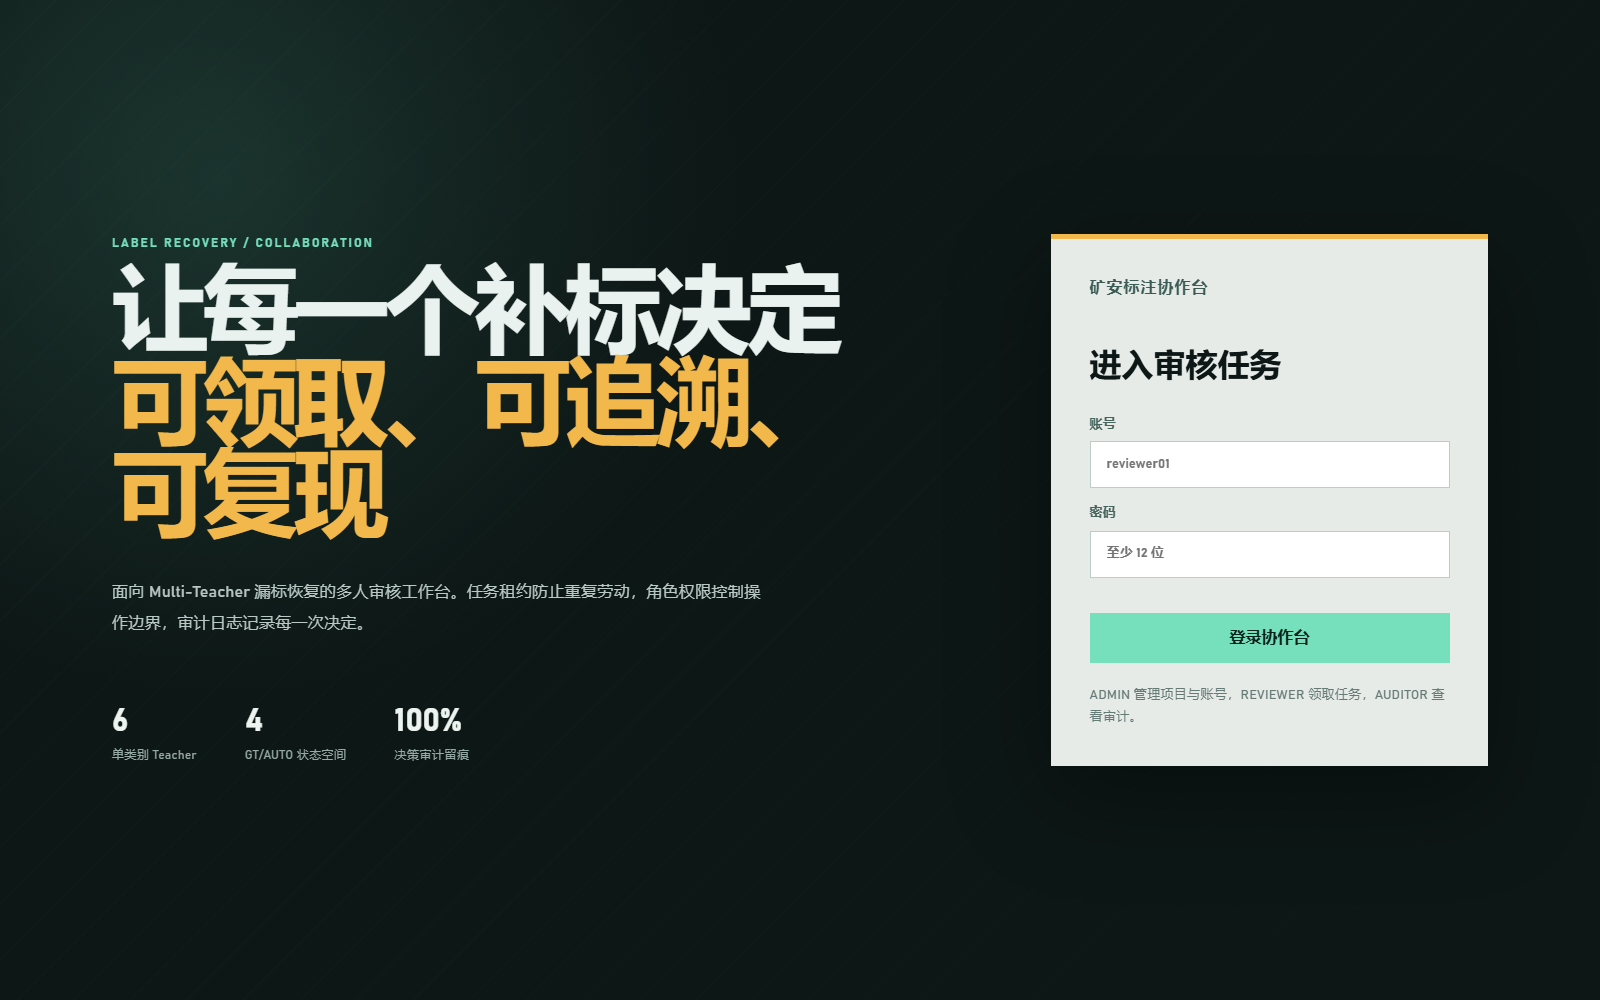
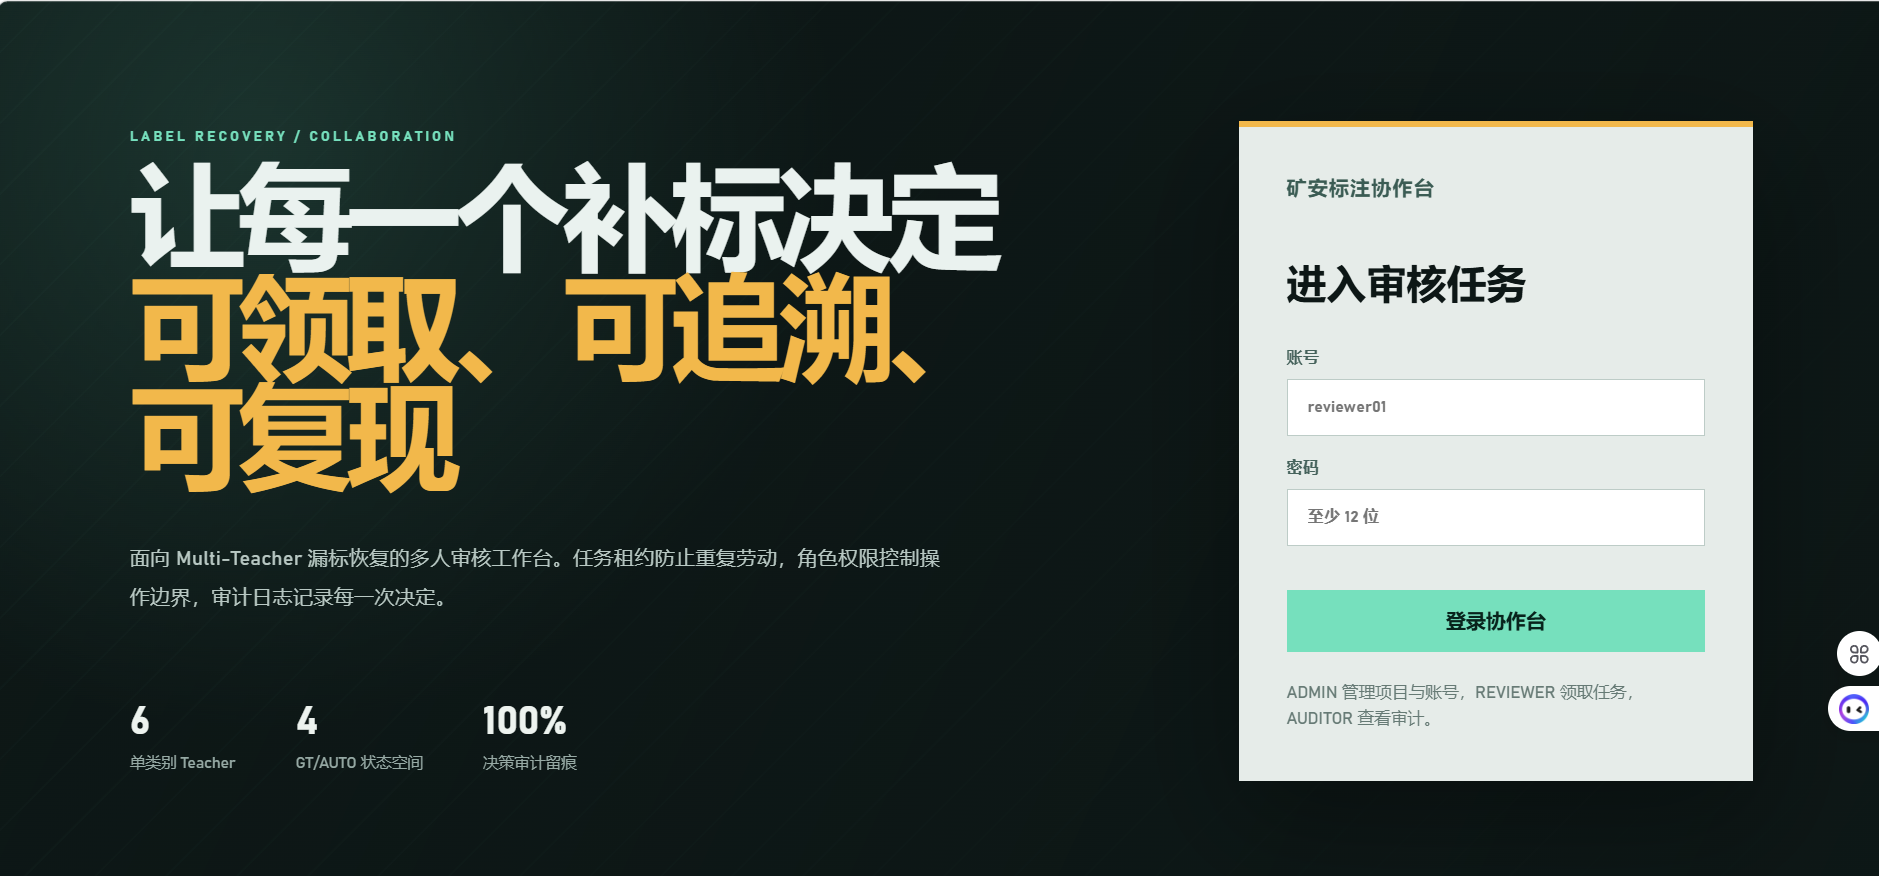
docs: add real collaboration login screenshot

diff --git a/README.md b/README.md
@@ -84,6 +84,8 @@ See [Grouped Review Application](docs/GROUPED_REVIEW_APP.md) for the queue contr
 
 The repository now includes a deployable web platform for teams that outgrow the portable desktop reviewer. A Vue 3 + TypeScript client talks to a Spring Boot 4 REST API backed by MySQL and Flyway. JWT authentication, `ADMIN / REVIEWER / AUDITOR` RBAC, project membership, pessimistic task claiming, renewable leases, optimistic versions and immutable audit events prevent duplicate work and stale decisions. The Python bridge streams the existing `review_queue.csv` into the API in bounded, idempotent batches.
 
+![Real role-aware login entry](docs/assets/platform-login.png)
+
 ![Real multi-user review dashboard](docs/assets/platform-dashboard.png)
 
 <p>
@@ -91,7 +93,7 @@ The repository now includes a deployable web platform for teams that outgrow the
   <img src="docs/assets/platform-admin.png" width="49%" alt="Reviewer account and project assignment panel">
 </p>
 
-These are captures of the actual Vue + Spring Boot application, not design mockups. The workspace shows a claimed task, real review visual, class confidence, constrained decisions and live project progress; the admin view demonstrates account creation and project membership assignment.
+These are captures of the actual Vue + Spring Boot application, not design mockups. The login view shows the role-aware entry used by reviewers; the workspace shows a claimed task, real review visual, class confidence, constrained decisions and live project progress; the admin view demonstrates account creation and project membership assignment.
 
 ```mermaid
 flowchart LR

diff --git a/README.zh-CN.md b/README.zh-CN.md
@@ -84,6 +84,8 @@
 
 当便携式桌面审核器无法满足多人并行工作时，可以启用仓库内的 Web 协作平台。Vue 3 + TypeScript 前端连接 Spring Boot 4 REST API，使用 MySQL + Flyway 持久化；JWT 登录、`ADMIN / REVIEWER / AUDITOR` 角色、项目成员隔离、悲观锁原子领任务、可续租心跳、乐观版本号和不可变审计事件共同防止重复审核与旧页面覆盖。Python 桥接脚本会把现有 `review_queue.csv` 以有界、幂等批次流式导入。
 
+![真实角色登录入口](docs/assets/platform-login.png)
+
 ![真实多人审核进度看板](docs/assets/platform-dashboard.png)
 
 <p>
@@ -91,7 +93,7 @@
   <img src="docs/assets/platform-admin.png" width="49%" alt="审核账号与项目分配面板">
 </p>
 
-以上均为 Vue + Spring Boot 应用的真实运行截图，不是设计示意图。工作台同时展示已领取任务、真实审核图、类别置信度、受约束决策按钮和项目实时进度；管理员界面展示账号创建与项目成员分配能力。
+以上均为 Vue + Spring Boot 应用的真实运行截图，不是设计示意图。登录页展示审核人员实际使用的角色入口；工作台同时展示已领取任务、真实审核图、类别置信度、受约束决策按钮和项目实时进度；管理员界面展示账号创建与项目成员分配能力。
 
 ```mermaid
 flowchart LR
